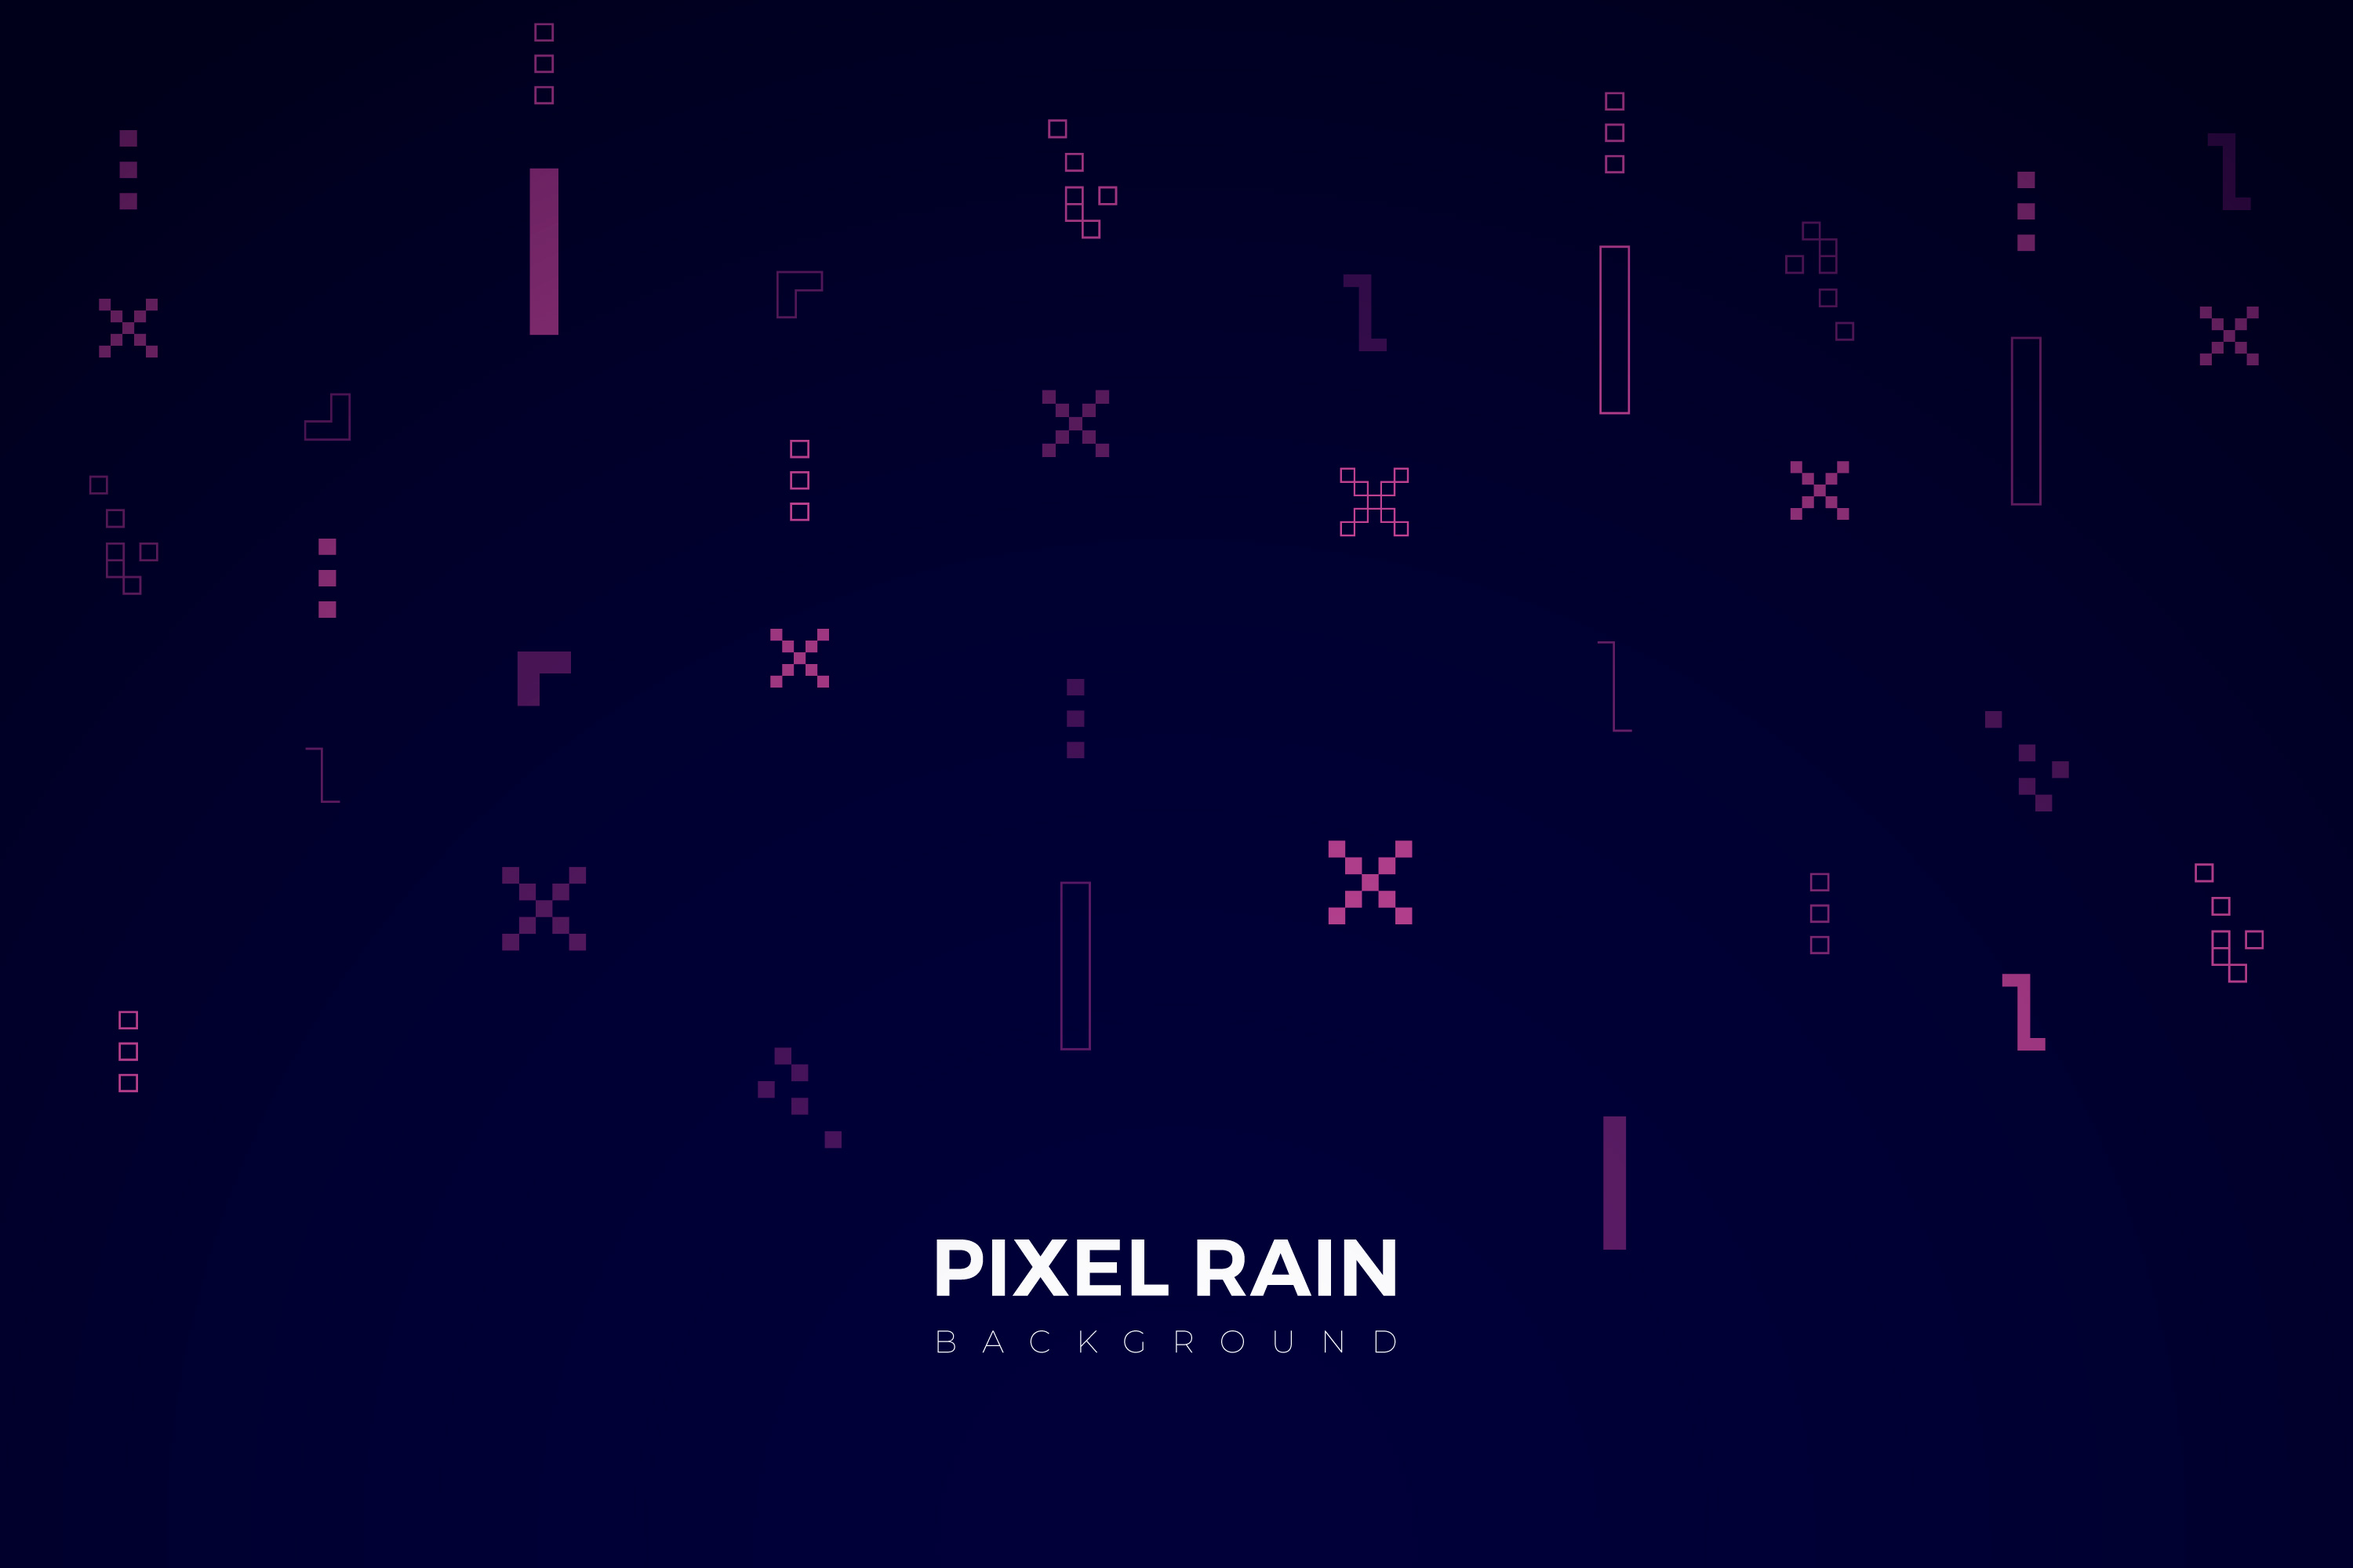
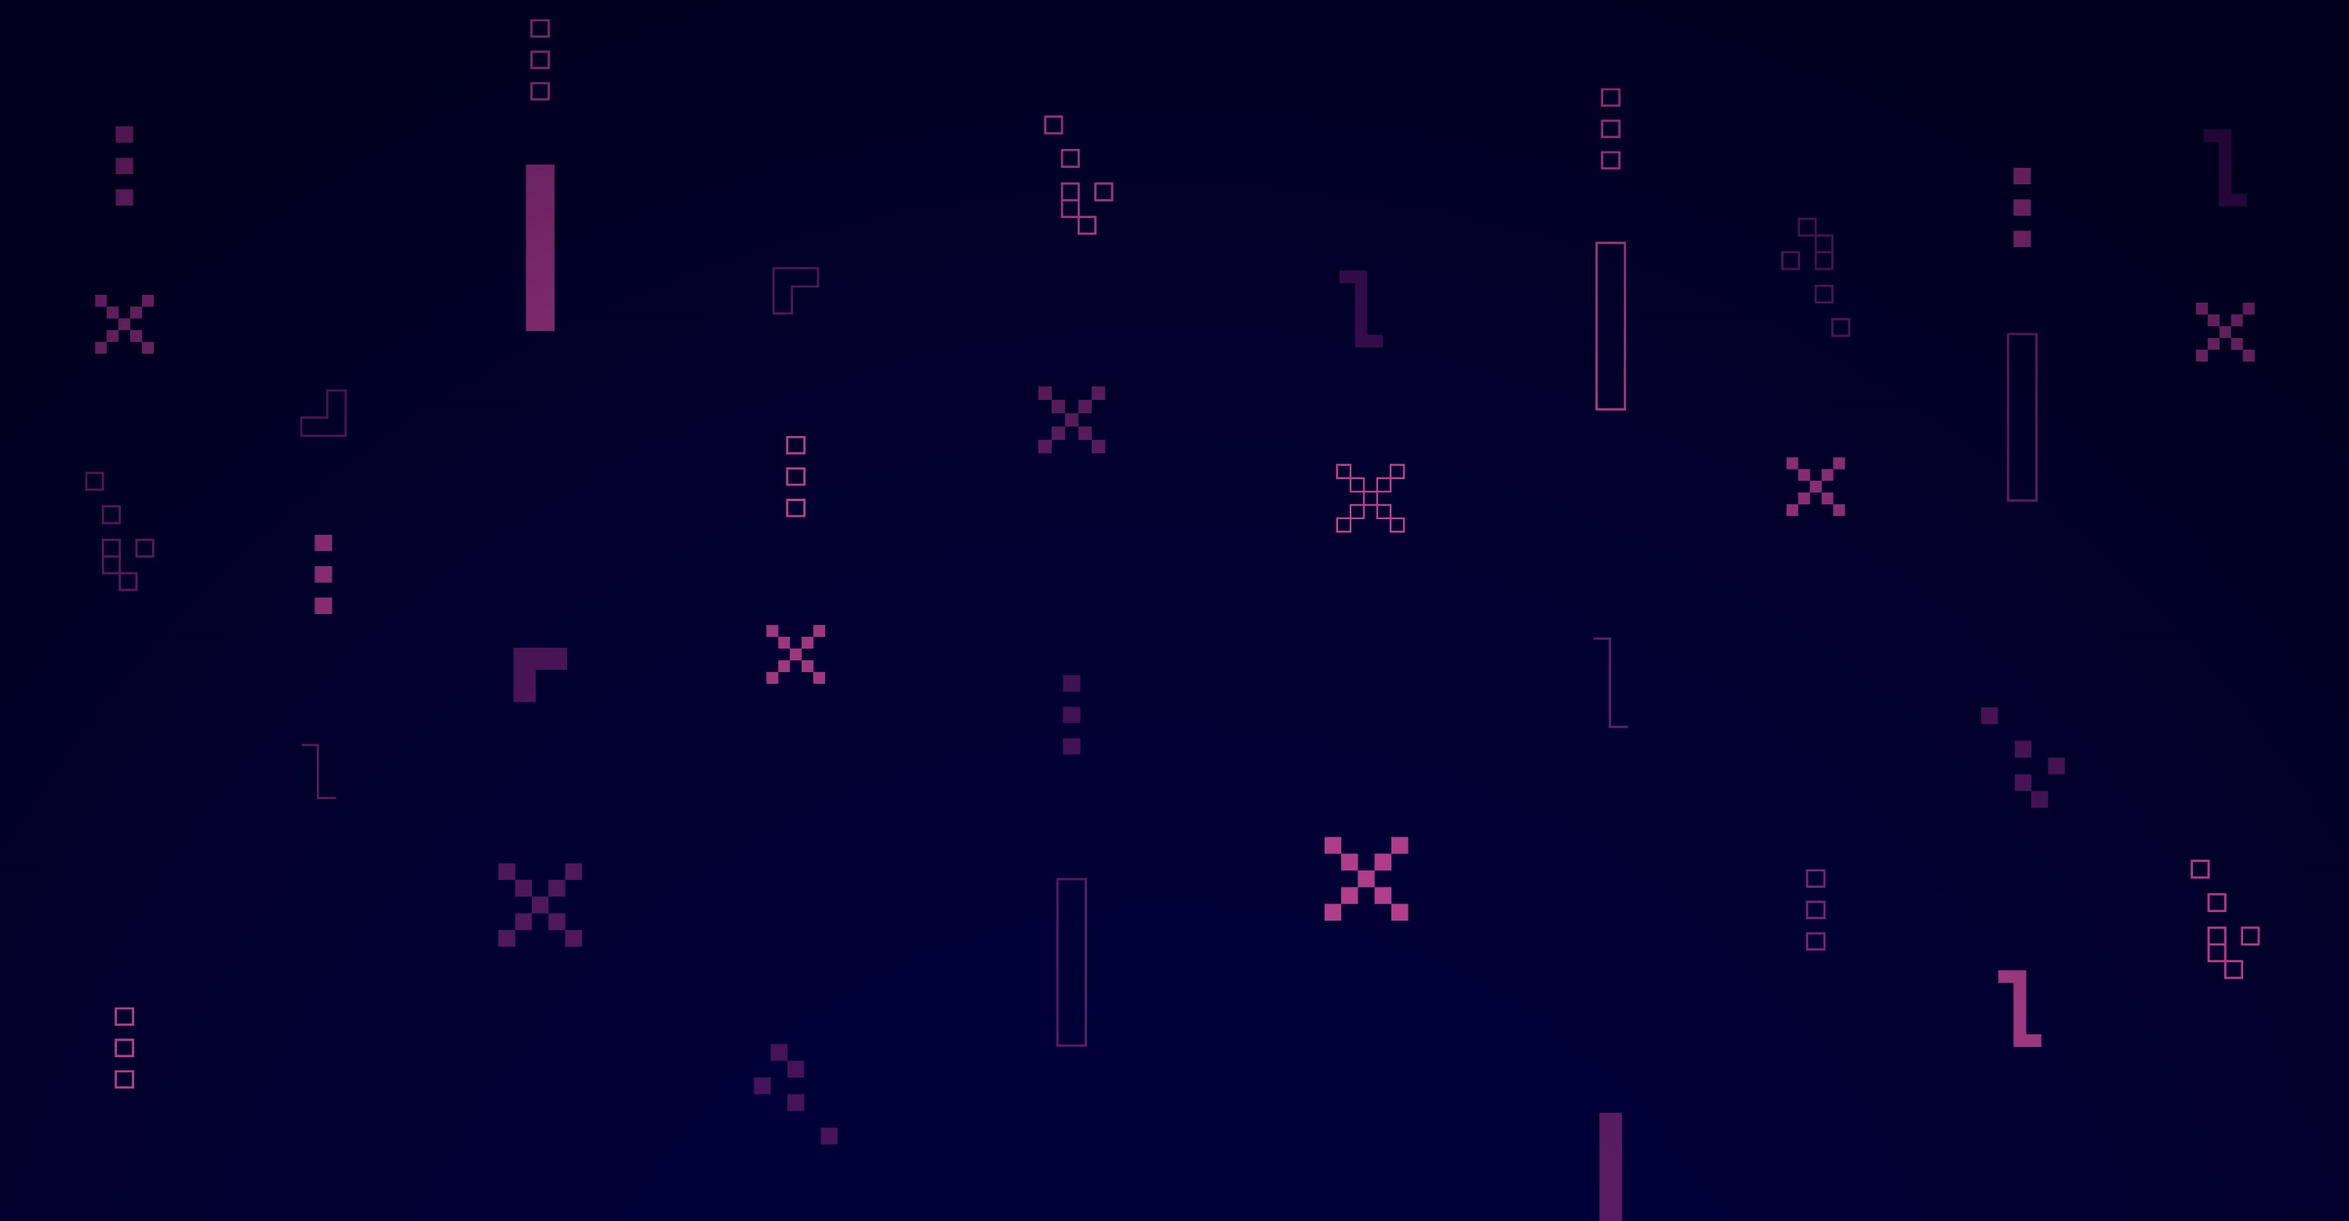
contact bgc

diff --git a/css/style.css b/css/style.css
@@ -308,7 +308,7 @@ header .fa-chevron-down {
 
 .contact {
   position: relative;
-  background-image: url("../img//12981409_5106746.jpeg");
+  background-image: url("../img/3162508.jpg");
   background-size: cover;
   background-position: top;
   background-repeat: no-repeat;
@@ -342,7 +342,7 @@ header .fa-chevron-down {
   content: "";
   top: 0;
   left: 0;
-  background-color: rgba(39, 0, 78, 0.8);
+  background-color: rgba(39, 0, 78, 0.6);
   z-index: -1;
   height: 100%;
   width: 100%;

diff --git a/sass/style.scss b/sass/style.scss
@@ -341,7 +341,7 @@ header {
 
 .contact {
 	position: relative;
-	background-image: url('../img//12981409_5106746.jpeg');
+	background-image: url('../img/3162508.jpg');
 	background-size: cover;
 	background-position: top;
 	background-repeat: no-repeat;
@@ -377,7 +377,7 @@ header {
 	content: '';
 	top: 0;
 	left: 0;
-	background-color: rgba(39, 0, 78, 0.8);
+	background-color: rgba(39, 0, 78, 0.6);
 	z-index: -1;
 	height: 100%;
 	width: 100%;
